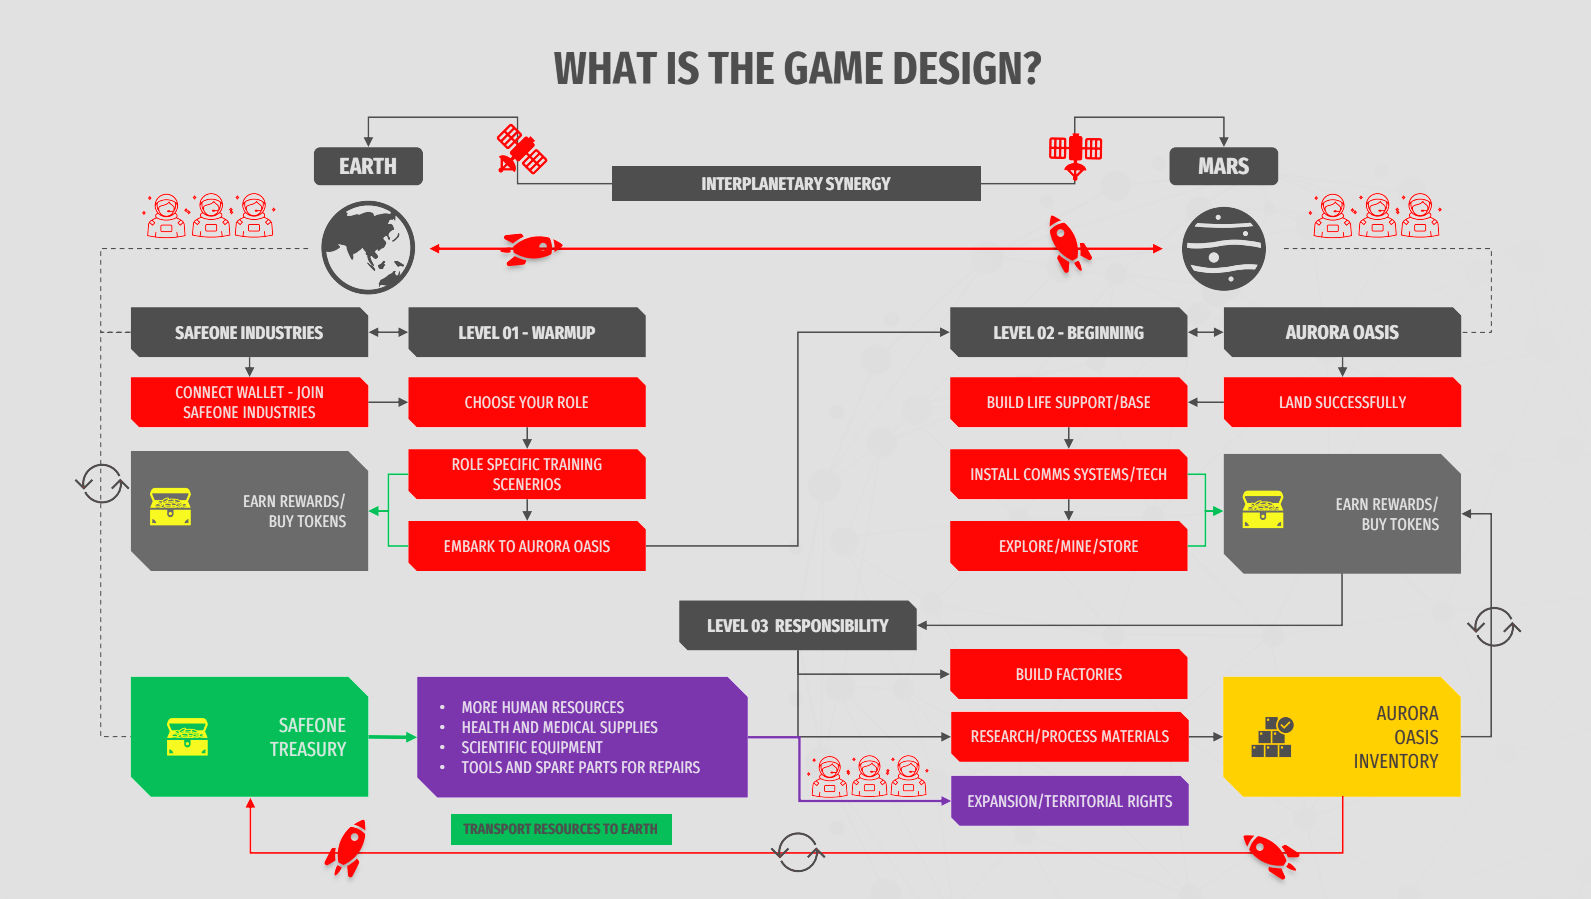
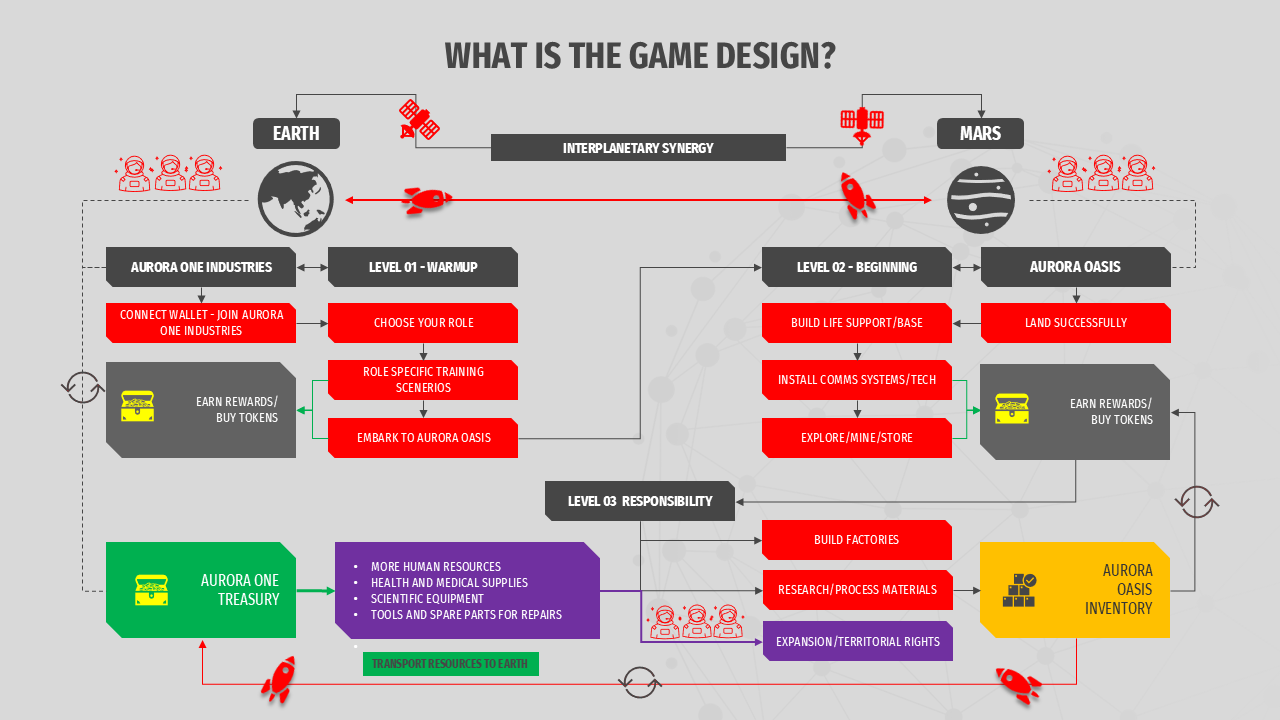
Aurora Update V1

diff --git a/join.html b/join.html
@@ -240,19 +240,19 @@
                     </div>
                 </section>
 
-                <!--Team Section-->
-                <section class="team-section">
+                Team Section
+                <!-- <section class="team-section">
                     <div class="auto-container">
                         <div class="def-title-box">
                             <div class="patt"><span></span></div>
                             <div class="subtitle">Team</div>
                             <h3>Visinory Cosmonauts</h3>
-                        </div>
+                        </div> -->
 
-                        <div class="team">
+                        <!-- <div class="team">
                             <div class="row clearfix">
                                 <!--Block-->
-                                <div class="team-block col-xl-4 col-lg-6 col-md-6 col-sm-12">
+                                <!-- <div class="team-block col-xl-4 col-lg-6 col-md-6 col-sm-12">
                                     <div class="inner-box">
                                         <div class="image-box"><a href="#"><img src="images/resource/team-1.jpg"
                                                     alt=""></a></div>
@@ -264,10 +264,10 @@
                                         </div>
                                         <div class="name"><a href="#">PRAHALAD SK</a></div>
                                     </div>
-                                </div>
+                                </div> --> -->
 
-                                <!--Block-->
-                                <div class="team-block col-xl-4 col-lg-6 col-md-6 col-sm-12">
+                                Block-->
+                                <!-- <div class="team-block col-xl-4 col-lg-6 col-md-6 col-sm-12">
                                     <div class="inner-box">
                                         <div class="image-box"><a href="#"><img src="images/resource/team-2.jpg"
                                                     alt=""></a></div>
@@ -279,9 +279,9 @@
                                         </div>
                                         <div class="name"><a href="#">MOHAN KUMAR</a></div>
                                     </div>
-                                </div>
+                                </div> -->
 
-                                <!--Block-->
+                                <!--Block
                                 <div class="team-block col-xl-4 col-lg-6 col-md-6 col-sm-12">
                                     <div class="inner-box">
                                         <div class="image-box"><a href="#"><img src="images/resource/team-3.jpg"
@@ -310,7 +310,7 @@
                                 </div>
 
                                 <!--Block-->
-                                <div class="team-block col-xl-4 col-lg-6 col-md-6 col-sm-12">
+                                <!-- <div class="team-block col-xl-4 col-lg-6 col-md-6 col-sm-12">
                                     <div class="inner-box">
                                         <div class="image-box"><a href="#"><img src="images/resource/team-6.jpg"
                                                     alt=""></a></div>
@@ -322,10 +322,10 @@
                                         </div>
                                         <div class="name"><a href="#">VIJAY PRAVIN</a></div>
                                     </div>
-                                </div>
+                                </div> -->
 
                                 <!--Block-->
-                                <div class="team-block col-xl-4 col-lg-6 col-md-6 col-sm-12">
+                                <!-- <div class="team-block col-xl-4 col-lg-6 col-md-6 col-sm-12">
                                     <div class="inner-box">
                                         <div class="image-box"><a href="#"><img src="images/resource/team-4.jpg"
                                                     alt=""></a></div>
@@ -343,7 +343,7 @@
                         </div>
 
                     </div>
-                </section>                 
+                </section>                  -->
 
                 <!--Services Section-->
                 <section class="services-two">
@@ -466,13 +466,13 @@
                                     <!--Block-->
                                     <div class="info-block col-lg-6 col-md-6 col-sm-12">
                                         <div class="i-title">Galactic HQ</div>
-                                        <div class="text">SafeOne Industries Orbital Division<br>Sector 121-K, Mars Outpost VIC 3000</div>
+                                        <div class="text">AuroraOne Industries Orbital Division<br>Sector 121-K, Mars Outpost VIC 3000</div>
                                     </div>
                                     <!--Block-->
                                     <div class="info-block col-lg-6 col-md-6 col-sm-12">
                                         <div class="i-title">Contact info</div>
                                         <div class="text">  <a
-                                                href="mailto:hello@safeverse.io">hello@safeverse.io</a></div>
+                                                href="mailto:mars@auroraoasis.io">mars@auroraoasis.io/</a></div>
                                     </div>
                                 </div>
                             </div>

diff --git a/support.html b/support.html
@@ -147,7 +147,7 @@
                                     <div class="inner">
                                         <div class="icon-box"><span class="fa fa-map-marker-alt"></span></div>
                                         <h5>Address</h5>
-                                        <div class="info">SafeOne Industries Orbital Division</div>
+                                        <div class="info">AuroraOne Industries Orbital Division</div>
                                     </div>
                                 </div>
                             </div>
@@ -206,12 +206,12 @@
                                 <!--Block-->
                                 <div class="info-block col-lg-6 col-md-6 col-sm-12">
                                     <div class="i-title">Galactic HQ</div>
-                                    <div class="text">SafeOne Industries Orbital Division<br>Sector 121-K, Mars Outpost VIC 3000</div>
+                                    <div class="text">AuroraOne Industries Orbital Division<br>Sector 121-K, Mars Outpost VIC 3000</div>
                                 </div>
                                 <!--Block-->
                                 <div class="info-block col-lg-6 col-md-6 col-sm-12">
                                     <div class="i-title">Contact info</div>
-                                    <div class="text">  <a href="mailto:hello@safeverse.io">hello@safeverse.io</a></div>
+                                    <div class="text">  <a href="mailto:mars@auroraoasis.io">mars@auroraoasis.io</a></div>
                                 </div>
                             </div>
                         </div>

diff --git a/customization.html b/customization.html
@@ -171,13 +171,13 @@
                                     <!--Block-->
                                     <div class="info-block col-lg-6 col-md-6 col-sm-12">
                                         <div class="i-title">Galactic HQ</div>
-                                        <div class="text">SafeOne Industries Orbital Division<br>Sector 121-K, Mars Outpost VIC 3000</div>
+                                        <div class="text">AuroraOne Industries Orbital Division<br>Sector 121-K, Mars Outpost VIC 3000</div>
                                     </div>
                                     <!--Block-->
                                     <div class="info-block col-lg-6 col-md-6 col-sm-12">
                                         <div class="i-title">Contact info</div>
                                         <div class="text">  <a
-                                                href="mailto:hello@safeverse.io">hello@safeverse.io</a></div>
+                                                href="mailto:mars@auroraoasis.io">mars@auroraoasis.io</a></div>
                                     </div>
                                 </div>
                             </div>

diff --git a/economy.html b/economy.html
@@ -175,13 +175,13 @@
                                     <!--Block-->
                                     <div class="info-block col-lg-6 col-md-6 col-sm-12">
                                         <div class="i-title">Galactic HQ</div>
-                                        <div class="text">SafeOne Industries Orbital Division<br>Sector 121-K, Mars Outpost VIC 3000</div>
+                                        <div class="text">AuroraOne Industries Orbital Division<br>Sector 121-K, Mars Outpost VIC 3000</div>
                                     </div>
                                     <!--Block-->
                                     <div class="info-block col-lg-6 col-md-6 col-sm-12">
                                         <div class="i-title">Contact info</div>
                                         <div class="text">  <a
-                                                href="mailto:hello@safeverse.io">hello@safeverse.io</a></div>
+                                                href="mailto:mars@auroraoasis.io">mars@auroraoasis.io</a></div>
                                     </div>
                                 </div>
                             </div>

diff --git a/community.html b/community.html
@@ -168,12 +168,12 @@
                                 <!--Block-->
                                 <div class="info-block col-lg-6 col-md-6 col-sm-12">
                                     <div class="i-title">Galactic HQ</div>
-                                    <div class="text">SafeOne Industries Orbital Division<br>Sector 121-K, Mars Outpost VIC 3000</div>
+                                    <div class="text">AuroraOne Industries Orbital Division<br>Sector 121-K, Mars Outpost VIC 3000</div>
                                 </div>
                                 <!--Block-->
                                 <div class="info-block col-lg-6 col-md-6 col-sm-12">
                                     <div class="i-title">Contact info</div>
-                                    <div class="text">  <a href="mailto:hello@safeverse.io">hello@safeverse.io</a></div>
+                                    <div class="text">  <a href="mailto:mars@auroraoasis.io">mars@auroraoasis.io</a></div>
                                 </div>
                             </div>
                         </div>

diff --git a/gameplay.html b/gameplay.html
@@ -172,12 +172,12 @@
                                 <!--Block-->
                                 <div class="info-block col-lg-6 col-md-6 col-sm-12">
                                     <div class="i-title">Galactic HQ</div>
-                                    <div class="text">SafeOne Industries Orbital Division<br>Sector 121-K, Mars Outpost VIC 3000</div>
+                                    <div class="text">AuroraOne Industries Orbital Division<br>Sector 121-K, Mars Outpost VIC 3000</div>
                                 </div>
                                 <!--Block-->
                                 <div class="info-block col-lg-6 col-md-6 col-sm-12">
                                     <div class="i-title">Contact info</div>
-                                    <div class="text">  <a href="mailto:hello@safeverse.io">hello@safeverse.io</a></div>
+                                    <div class="text">  <a href="mailto:mars@auroraoasis.io">mars@auroraoasis.io</a></div>
                                 </div>
                             </div>
                         </div>

diff --git a/habitats.html b/habitats.html
@@ -168,12 +168,12 @@
                                 <!--Block-->
                                 <div class="info-block col-lg-6 col-md-6 col-sm-12">
                                     <div class="i-title">Galactic HQ</div>
-                                    <div class="text">SafeOne Industries Orbital Division<br>Sector 121-K, Mars Outpost VIC 3000</div>
+                                    <div class="text">AuroraOne Industries Orbital Division<br>Sector 121-K, Mars Outpost VIC 3000</div>
                                 </div>
                                 <!--Block-->
                                 <div class="info-block col-lg-6 col-md-6 col-sm-12">
                                     <div class="i-title">Contact info</div>
-                                    <div class="text">  <a href="mailto:hello@safeverse.io">hello@safeverse.io</a></div>
+                                    <div class="text">  <a href="mailto:mars@auroraoasis.io">mars@auroraoasis.io</a></div>
                                 </div>
                             </div>
                         </div>

diff --git a/mars-academy.html b/mars-academy.html
@@ -168,12 +168,12 @@
                                 <!--Block-->
                                 <div class="info-block col-lg-6 col-md-6 col-sm-12">
                                     <div class="i-title">Galactic HQ</div>
-                                    <div class="text">SafeOne Industries Orbital Division<br>Sector 121-K, Mars Outpost VIC 3000</div>
+                                    <div class="text">AuroraOne Industries Orbital Division<br>Sector 121-K, Mars Outpost VIC 3000</div>
                                 </div>
                                 <!--Block-->
                                 <div class="info-block col-lg-6 col-md-6 col-sm-12">
                                     <div class="i-title">Contact info</div>
-                                    <div class="text">  <a href="mailto:hello@safeverse.io">hello@safeverse.io</a></div>
+                                    <div class="text">  <a href="mailto:mars@auroraoasis.io">mars@auroraoasis.io</a></div>
                                 </div>
                             </div>
                         </div>

diff --git a/spacecraft.html b/spacecraft.html
@@ -167,12 +167,12 @@
                                 <!--Block-->
                                 <div class="info-block col-lg-6 col-md-6 col-sm-12">
                                     <div class="i-title">Galactic HQ</div>
-                                    <div class="text">SafeOne Industries Orbital Division<br>Sector 121-K, Mars Outpost VIC 3000</div>
+                                    <div class="text">AuroraOne Industries Orbital Division<br>Sector 121-K, Mars Outpost VIC 3000</div>
                                 </div>
                                 <!--Block-->
                                 <div class="info-block col-lg-6 col-md-6 col-sm-12">
                                     <div class="i-title">Contact info</div>
-                                    <div class="text">  <a href="mailto:hello@safeverse.io">hello@safeverse.io</a></div>
+                                    <div class="text">  <a href="mailto:mars@auroraoasis.io">mars@auroraoasis.io</a></div>
                                 </div>
                             </div>
                         </div>

diff --git a/vision.html b/vision.html
@@ -186,12 +186,12 @@
                                 <!--Block-->
                                 <div class="info-block col-lg-6 col-md-6 col-sm-12">
                                     <div class="i-title">Galactic HQ</div>
-                                    <div class="text">SafeOne Industries Orbital Division<br>Sector 121-K, Mars Outpost VIC 3000</div>
+                                    <div class="text">AuroraOne Industries Orbital Division<br>Sector 121-K, Mars Outpost VIC 3000</div>
                                 </div>
                                 <!--Block-->
                                 <div class="info-block col-lg-6 col-md-6 col-sm-12">
                                     <div class="i-title">Contact info</div>
-                                    <div class="text">  <a href="mailto:hello@safeverse.io">hello@safeverse.io</a></div>
+                                    <div class="text">  <a href="mailto:mars@auroraoasis.io">mars@auroraoasis.io</a></div>
                                 </div>
                             </div>
                         </div>
